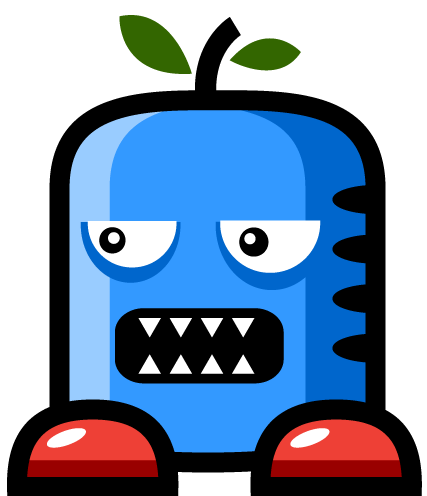
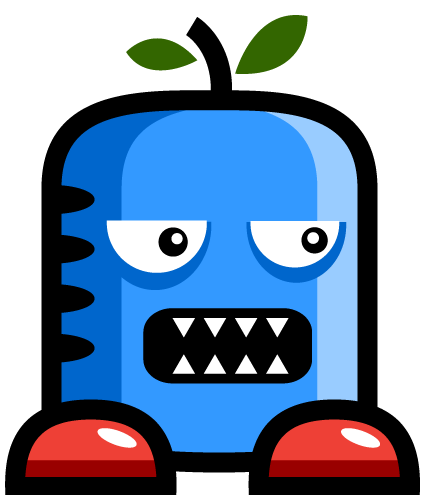
Improved architecture

diff --git a/Assets/Scripts/LandEnemy.cs b/Assets/Scripts/LandEnemy.cs
@@ -5,15 +5,13 @@ using UnityEngine;
 [RequireComponent(typeof(Rigidbody2D))]
 public class LandEnemy : Enemy
 {
-    [SerializeField] private SpriteRenderer _sprite;
-    [SerializeField] private Collider2D _collider;
     [SerializeField] private Animator _animator;
-    [SerializeField] private float _stopDistance;
+    [SerializeField] private float _closeDistance;
     [SerializeField] [Range(0f, 1f)] private float _groundNormal;
 
     private Rigidbody2D _body;
+    private LayerMask _playerLayer;
     private float? _lastHitFraction;
-    private LayerMask _layer;
 
     private void Awake()
     {
@@ -23,42 +21,33 @@ public class LandEnemy : Enemy
     {
         _body.freezeRotation = true;
         _lastHitFraction = null;
-        _layer = LayerMask.NameToLayer("Player") << 8;
+        _playerLayer = LayerMask.NameToLayer("Player") << 8;
 
-        Flip(_direction = 1);
-        _animator.SetBool("run", true);
-
-        die += () => Destroy(gameObject); 
+        Direction = MoveDirection.Right;
+        _animator.SetBool("run", _speed != 0);
     }
 
     private void Update()
     {
-        _body.velocity = new Vector2(_speed * _direction, _body.velocity.y);
+        _body.velocity = new Vector2(_speed * (int)Direction, _body.velocity.y);
 
-        if (CanMove(_collider, _direction, _stopDistance) == false)
+        if (CanMove(_collider, Direction, _closeDistance) == false)
         {
             _lastHitFraction = null;
-            _direction *= -1;
-            Flip(_direction);
+            Direction = Direction.Flip();
         }
     }
 
-    private bool CanMove(Collider2D collider, int direction, float stopDistance)
+    private bool CanMove(Collider2D collider, MoveDirection direction, float stopDistance)
     {
         float xPos = direction > 0 ? collider.bounds.max.x + 0.01f : collider.bounds.min.x - 0.01f;
-        Vector2 origin = new Vector2(xPos + stopDistance * direction, collider.bounds.center.y);
-        RaycastHit2D hitDown = Physics2D.Raycast(origin, Vector2.down, Mathf.Infinity, _layer);
-        RaycastHit2D hitDirection = Physics2D.Raycast(new Vector2(xPos, collider.bounds.center.y), Vector2.right * direction, stopDistance, _layer);
+        Vector2 origin = new Vector2(xPos + stopDistance * (int)direction, collider.bounds.center.y);
+        RaycastHit2D hitDown = Physics2D.Raycast(origin, Vector2.down, Mathf.Infinity, _playerLayer);
 
         if (_lastHitFraction == null)
             _lastHitFraction = hitDown.fraction;
 
-        return hitDown.normal.y >= _groundNormal && /*hitDirection.collider == null &&*/ Mathf.Abs(hitDown.fraction - _lastHitFraction.Value) < 1f;
-    }
-
-    private void Flip(int direction)
-    {
-        _sprite.flipX = direction > 0;
+        return hitDown.normal.y >= _groundNormal && Mathf.Abs(hitDown.fraction - _lastHitFraction.Value) < 1f;
     }
 
     protected override void OnCollisionEnter2D(Collision2D collision)
@@ -67,8 +56,7 @@ public class LandEnemy : Enemy
         {
             if (contact.normal.y < _groundNormal)
             {
-                _direction *= -1;
-                Flip(_direction);
+                Direction = Direction.Flip();
                 break;
             }
         }

diff --git a/Assets/Scripts/Player.cs b/Assets/Scripts/Player.cs
@@ -3,33 +3,22 @@ using System.Collections.Generic;
 using System;
 using UnityEngine;
 
-public class Player : MonoBehaviour
+public class Player : Unit
 {
     [SerializeField] private CharacterMovement2D _movement;
-    [SerializeField] private SpriteRenderer _sprite;
     [SerializeField] private Animator _animator;
-    [SerializeField] private float _health;
 
     private void Update()
     {
-        Vector2 moveDir = new Vector2(Input.GetAxisRaw("Horizontal"), 0);
-        _movement.Move(moveDir);
+        Direction = (MoveDirection)(int)Input.GetAxisRaw("Horizontal");
+        _movement.Move(Direction.ToVector2());
 
         if (Input.GetKeyDown(KeyCode.Space) && _movement.OnGround)
             _movement.Jump();
 
         UpdateAnimations();
-        FlipSprite(moveDir);
     }
 
-    public void TakeDamage(int damage)
-    {
-        _health -= damage;
-        if (_health <= 0)
-        {
-            _health = 0;
-        }
-    }
     private void UpdateAnimations()
     {
         _animator.SetBool("run", _movement.Velocity.x != 0);
@@ -40,17 +29,17 @@ public class Player : MonoBehaviour
             _animator.SetInteger("jump", _movement.Velocity.y > 0 ? 1 : -1);
     }
 
-    private void FlipSprite(Vector2 moveDirection)
-    {
-        _sprite.flipX = moveDirection.x < 0 ? true : moveDirection.x > 0 ? false : _sprite.flipX;
-    }
-
-    private void OnCollisionEnter2D(Collision2D collision)
+    protected override void OnCollisionEnter2D(Collision2D collision)
     {
         if (collision.collider.TryGetComponent(out Enemy enemy))
         {
             _movement.AddForce(Vector2.up * 250f);
         }
+    }
+
+    protected override void Dead()
+    {
+        Debug.Log("dead");
     }
 }
 

diff --git a/Assets/Scripts/Unit.cs b/Assets/Scripts/Unit.cs
@@ -1,0 +1,45 @@
+using System.Collections;
+using System.Collections.Generic;
+using UnityEngine;
+
+public enum MoveDirection : int
+{
+    Right = 1, Left = -1, None = 0,
+}
+public class Unit : MonoBehaviour
+{
+    [SerializeField] protected SpriteRenderer _sprite;
+    [SerializeField] protected int _health;
+
+    private MoveDirection _direction;
+    protected MoveDirection Direction
+    {
+        get
+        {
+            return _direction;
+        }
+        set
+        {
+            _direction = value;
+            if (_direction != MoveDirection.None)
+                _sprite.flipX = (int)_direction < 0;
+        }
+    }
+
+    public virtual void TakeDamage(int damage)
+    {
+        _health -= damage;
+        if (_health <= 0)
+        {
+            _health = 0;
+            Dead();
+        }
+    }
+
+    protected virtual void Dead()
+    {
+        Destroy(gameObject);
+    }
+
+    protected virtual void OnCollisionEnter2D(Collision2D collision) { }
+}

diff --git a/Assets/Scripts/Enemy.cs b/Assets/Scripts/Enemy.cs
@@ -3,25 +3,12 @@ using System.Collections.Generic;
 using UnityEngine;
 using UnityEngine.Events;
 
-public class Enemy : MonoBehaviour
+public class Enemy : Unit
 {
-    [SerializeField] protected int _health;
+    [SerializeField] protected Collider2D _collider;
     [SerializeField] protected float _speed;
 
-    protected event UnityAction die;
-    protected int _direction;
-
-    protected void TakeDamage(int damage)
-    {
-        _health -= damage;
-        if (_health <= 0)
-        {
-            _health = 0;
-            die?.Invoke();
-        }
-    }
-
-    protected virtual void OnCollisionEnter2D(Collision2D collision)
+    protected override void OnCollisionEnter2D(Collision2D collision)
     {
         if (collision.gameObject.TryGetComponent(out Player player))
         {

diff --git a/Assets/Scripts/Extensions/Extensions.cs b/Assets/Scripts/Extensions/Extensions.cs
@@ -1,0 +1,18 @@
+using UnityEngine;
+
+static class Extensions
+{
+    public static MoveDirection Flip(this MoveDirection direction)
+    {
+        if (direction == MoveDirection.None)
+            return direction;
+
+        return (MoveDirection)((int)direction * -1);
+    }
+
+    public static Vector2 ToVector2(this MoveDirection direction)
+    {
+        return new Vector2((int)direction, 0);
+    }
+}
+
